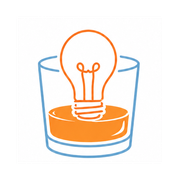
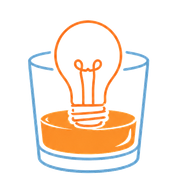
Use transparent Liquid Genius mark

Changed region(s): [[0.1389, 0.1111, 0.8333, 0.9722]]

diff --git a/index.html b/index.html
@@ -19,7 +19,7 @@
 <body>
   <header class="site-header">
     <a class="brand" href="#top" aria-label="Liquid Genius home">
-      <img src="ChatGPT%20Image%20Apr%2028,%202026,%2009_42_42%20PM.png" alt="Liquid Genius logo">
+      <img src="assets/liquid-genius-mark.png" alt="Liquid Genius logo mark">
       <span>Liquid Genius</span>
     </a>
     <nav aria-label="Primary navigation">
@@ -58,7 +58,7 @@
       </div>
       <div class="hero-visual" aria-label="Liquid Genius brand panel">
         <div class="liquid-panel logo-panel">
-          <img src="ChatGPT%20Image%20Apr%2028,%202026,%2009_42_42%20PM.png" alt="Liquid Genius: pouring AI confidence into human solutions">
+          <img src="assets/liquid-genius-mark.png" alt="Liquid Genius glass and light bulb mark">
         </div>
         <div class="floating-note top-note">AI confidence, poured into real work.</div>
         <div class="floating-note bottom-note">People first. Systems second. Growth always.</div>

diff --git a/styles.css b/styles.css
@@ -78,10 +78,11 @@ img {
 .brand img {
   width: 46px;
   height: 46px;
-  object-fit: cover;
-  object-position: center 32%;
-  border: 1px solid var(--line);
+  object-fit: contain;
+  padding: 3px;
+  border: 1px solid rgba(95, 168, 211, 0.24);
   border-radius: 50%;
+  background: var(--white);
   box-shadow: 0 8px 24px rgba(95, 168, 211, 0.16);
 }
 
@@ -284,8 +285,11 @@ h3 {
 }
 
 .logo-panel {
-  padding: clamp(14px, 2.4vw, 26px);
+  padding: clamp(32px, 6vw, 84px);
   transform: rotate(1.2deg);
+  background:
+    radial-gradient(circle at 50% 46%, rgba(95, 168, 211, 0.13), transparent 18rem),
+    var(--white);
 }
 
 .logo-panel img {
